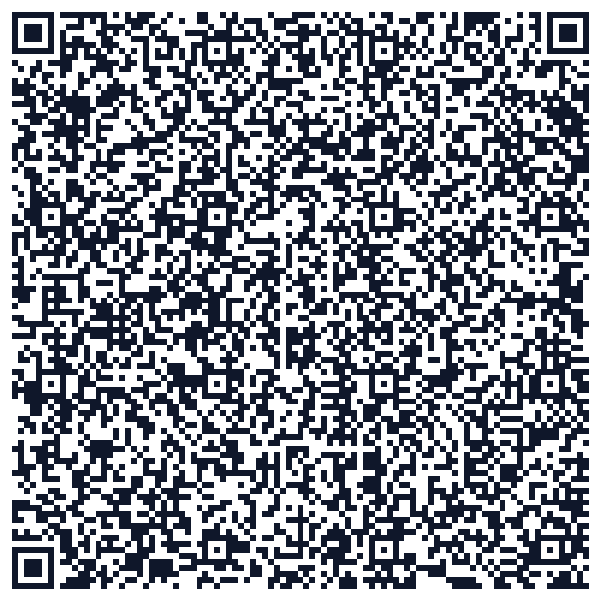
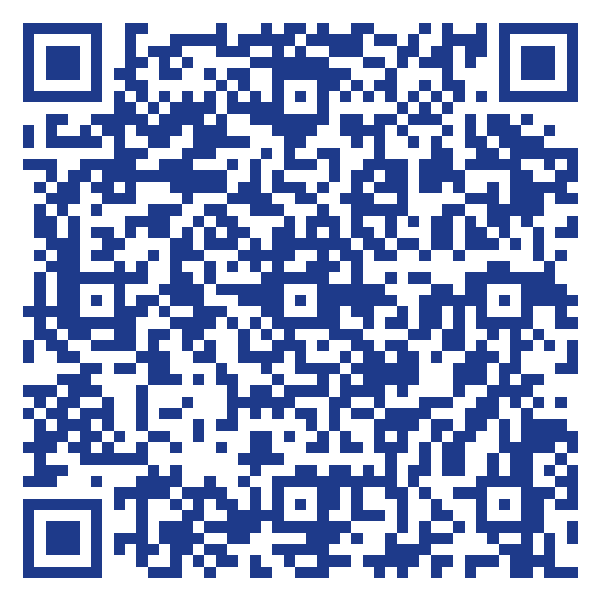
feat: sync card persistence and regenerate cloud QR codes

diff --git a/generate_sample_qrs.js b/generate_sample_qrs.js
@@ -2,78 +2,94 @@ const fs = require('fs');
 const path = require('path');
 const QRCode = require('qrcode');
 
-// Helper to base64url encode JSON
-function toBase64Url(str) {
-  return Buffer.from(str, 'utf8')
-    .toString('base64')
-    .replace(/\+/g, '-')
-    .replace(/\//g, '_')
-    .replace(/=+$/, '');
-}
-
-const choiEunJiCard = {
-  n: '최은지',
-  en: 'Choi Eun-ji',
-  c: '타이어뱅크 주식회사',
-  t: '과장',
-  d: '뱅크그룹 재경부',
-  p: '010-7672-6707',
+const sampleCard = {
+  name: '최은지',
+  engName: 'Choi Eun-ji',
+  company: '타이어뱅크 주식회사',
+  title: '과장',
+  department: '뱅크그룹 재경부',
+  phone: '010-7672-6707',
   tel: '044-850-1078',
-  e: 'cej6707@tirebank.com',
-  w: 'https://www.tirebank.com',
-  a: '세종특별자치시 한누리대로 350(뱅크빌딩) 8층',
-  b: '대한민국 1등 타이어 유통 전문기업 타이어뱅크 / 뱅크그룹 재경부',
-  th: 'minimal',
-  s: [
-    { t: 'website', l: '타이어뱅크 공식몰', u: 'https://www.tirebank.com' }
+  email: 'cej6707@tirebank.com',
+  website: 'https://www.tirebank.com',
+  address: '세종특별자치시 한누리대로 350(뱅크빌딩) 8층',
+  bio: '대한민국 1등 타이어 유통 전문기업 타이어뱅크 / 뱅크그룹 재경부',
+  theme: 'minimal',
+  socials: [
+    { type: 'website', label: '타이어뱅크 공식몰', url: 'https://www.tirebank.com' }
   ]
 };
 
-const encoded = toBase64Url(JSON.stringify(choiEunJiCard));
-const localUrl = `http://localhost:4173/#card=${encoded}`;
-const wifiUrl = `http://172.30.1.33:4173/#card=${encoded}`;
+const payload = {
+  n: sampleCard.name,
+  en: sampleCard.engName,
+  c: sampleCard.company,
+  t: sampleCard.title,
+  d: sampleCard.department,
+  p: sampleCard.phone,
+  tel: sampleCard.tel,
+  e: sampleCard.email,
+  w: sampleCard.website,
+  a: sampleCard.address,
+  b: sampleCard.bio,
+  th: sampleCard.theme,
+  s: sampleCard.socials
+};
 
-console.log('Encoded:', encoded);
-console.log('Local URL:', localUrl);
-console.log('Wi-Fi URL:', wifiUrl);
+const encoded = Buffer.from(JSON.stringify(payload)).toString('base64')
+  .replace(/\+/g, '-')
+  .replace(/\//g, '_')
+  .replace(/=+$/, '');
 
-// Also MECARD for direct phone address book import
-const mecard = `MECARD:N:최은지;ORG:타이어뱅크 주식회사;TIL:과장;TEL:010-7672-6707;TEL:044-850-1078;EMAIL:cej6707@tirebank.com;URL:https://www.tirebank.com;ADR:세종특별자치시 한누리대로 350(뱅크빌딩) 8층;NOTE:뱅크그룹 재경부;;`;
+// 1. 24시간 언제 어디서나 접속 가능한 온라인 영구 배포 URL (GitHub Pages)
+const onlineUrl = `https://jungyeonsu0330.github.io/smart-business-card/sample_card.html#card=${encoded}`;
+const onlineShortUrl = `https://jungyeonsu0330.github.io/smart-business-card/sample_card.html`;
 
-async function generateQRs() {
-  const qrOptions = {
-    errorCorrectionLevel: 'M',
+// 2. 로컬 Wi-Fi 접속 URL
+const localUrl = `http://172.30.1.33:4173/sample_card.html#card=${encoded}`;
+
+// 3. vCard 텍스트
+const vcardText = [
+  'BEGIN:VCARD',
+  'VERSION:3.0',
+  'FN;CHARSET=UTF-8:최은지',
+  'N;CHARSET=UTF-8:최;은지;;;',
+  'ORG;CHARSET=UTF-8:타이어뱅크 주식회사;뱅크그룹 재경부',
+  'TITLE;CHARSET=UTF-8:과장',
+  'TEL;TYPE=CELL,VOICE:010-7672-6707',
+  'TEL;TYPE=WORK,VOICE:044-850-1078',
+  'EMAIL;TYPE=WORK,INTERNET:cej6707@tirebank.com',
+  'URL:https://www.tirebank.com',
+  'ADR;TYPE=WORK;CHARSET=UTF-8:;;세종특별자치시 한누리대로 350(뱅크빌딩) 8층;;;;',
+  'END:VCARD'
+].join('\r\n');
+
+async function generate() {
+  const qrOpts = {
+    errorCorrectionLevel: 'H',
     type: 'png',
     margin: 2,
     color: {
-      dark: '#0f172a',
+      dark: '#1e3a8a',
       light: '#ffffff'
     },
     width: 600
   };
 
-  // 1. Web link QR (using Wi-Fi IP so phone on same Wi-Fi can scan & view interactive card)
-  await QRCode.toFile(
-    path.join(__dirname, 'tirebank_sample_web_qr.png'),
-    wifiUrl,
-    qrOptions
-  );
+  // 온라인 24시간 영구 접속 QR (메인)
+  await QRCode.toFile(path.join(__dirname, 'tirebank_sample_web_qr.png'), onlineShortUrl, qrOpts);
+  await QRCode.toFile(path.join(__dirname, '최은지_과장_QR코드.png'), onlineShortUrl, qrOpts);
+  await QRCode.toFile(path.join(__dirname, 'choi_eunji_qr.png'), onlineShortUrl, qrOpts);
 
-  // 2. Localhost Web link QR
-  await QRCode.toFile(
-    path.join(__dirname, 'tirebank_sample_local_qr.png'),
-    localUrl,
-    qrOptions
-  );
+  // 로컬 Wi-Fi용 QR
+  await QRCode.toFile(path.join(__dirname, 'tirebank_sample_local_qr.png'), localUrl, qrOpts);
 
-  // 3. Contact save vCard/MECARD QR (scannable offline by any phone camera to save contact!)
-  await QRCode.toFile(
-    path.join(__dirname, 'tirebank_sample_vcard_qr.png'),
-    mecard,
-    qrOptions
-  );
+  // vCard 바로 저장용 QR
+  await QRCode.toFile(path.join(__dirname, 'tirebank_sample_vcard_qr.png'), vcardText, qrOpts);
 
-  console.log('QR codes generated successfully!');
+  console.log('24/7 Global Online URL:', onlineShortUrl);
+  console.log('Local Wi-Fi URL:', localUrl);
+  console.log('All QR codes regenerated successfully!');
 }
 
-generateQRs().catch(console.error);
+generate().catch(console.error);

diff --git a/sample_card.html b/sample_card.html
@@ -1364,6 +1364,87 @@
       URL.revokeObjectURL(link.href);
       showToast('📲 스마트폰 주소록 연락처 파일(.vcf)이 다운로드되었습니다!');
     }
+  
+    // 0. Dynamic Persistence: URL Hash or LocalStorage Sync
+    function syncCardData() {
+      let card = null;
+      try {
+        if (window.location.hash && window.location.hash.includes('card=')) {
+          const raw = window.location.hash.split('card=')[1].split('&')[0];
+          const base64 = raw.replace(/-/g, '+').replace(/_/g, '/');
+          const json = decodeURIComponent(escape(atob(base64)));
+          card = JSON.parse(json);
+          localStorage.setItem('cardlink_saved_card', JSON.stringify(card));
+        }
+      } catch (e) {
+        console.warn('URL hash decode error:', e);
+      }
+
+      if (!card) {
+        try {
+          const saved = localStorage.getItem('cardlink_saved_card');
+          if (saved) card = JSON.parse(saved);
+        } catch (e) {
+          console.warn('LocalStorage load error:', e);
+        }
+      }
+
+      if (card && card.name) {
+        applyCardToDOM(card);
+      }
+    }
+
+    function applyCardToDOM(c) {
+      if (c.name) {
+        const nameEl = document.querySelector('.person-name');
+        if (nameEl) nameEl.textContent = c.name;
+        document.title = `${c.name} ${c.title || ''} - ${c.company || '스마트 디지털 명함'}`;
+      }
+      if (c.engName) {
+        const engEl = document.querySelector('.person-eng-name');
+        if (engEl) engEl.textContent = c.engName;
+      }
+      if (c.title || c.department) {
+        const tdEl = document.querySelector('.person-title-dept');
+        if (tdEl) {
+          tdEl.innerHTML = `${c.title || ''} <span class="dot">·</span> ${c.department || ''}`;
+        }
+      }
+      if (c.bio) {
+        const bioEl = document.querySelector('.bio-quote');
+        if (bioEl) bioEl.textContent = `“${c.bio}”`;
+      }
+      if (c.phone) {
+        const telLink = document.querySelector('a[href^="tel:"]');
+        if (telLink) {
+          telLink.href = `tel:${c.phone.replace(/[^0-9]/g, '')}`;
+          const valEl = telLink.querySelector('.contact-value');
+          if (valEl) valEl.textContent = c.phone;
+        }
+      }
+      if (c.email) {
+        const emailLink = document.querySelector('a[href^="mailto:"]');
+        if (emailLink) {
+          emailLink.href = `mailto:${c.email}`;
+          const valEl = emailLink.querySelector('.contact-value');
+          if (valEl) valEl.textContent = c.email;
+        }
+      }
+      if (c.address) {
+        window._cardCurrentAddress = c.address;
+        const addrItems = document.querySelectorAll('.contact-item');
+        addrItems.forEach(item => {
+          const lbl = item.querySelector('.contact-label');
+          if (lbl && lbl.textContent.includes('주소')) {
+            const val = item.querySelector('.contact-value');
+            if (val) val.textContent = c.address;
+          }
+        });
+      }
+    }
+
+    window.addEventListener('DOMContentLoaded', syncCardData);
+
   </script>
 </body>
 </html>
